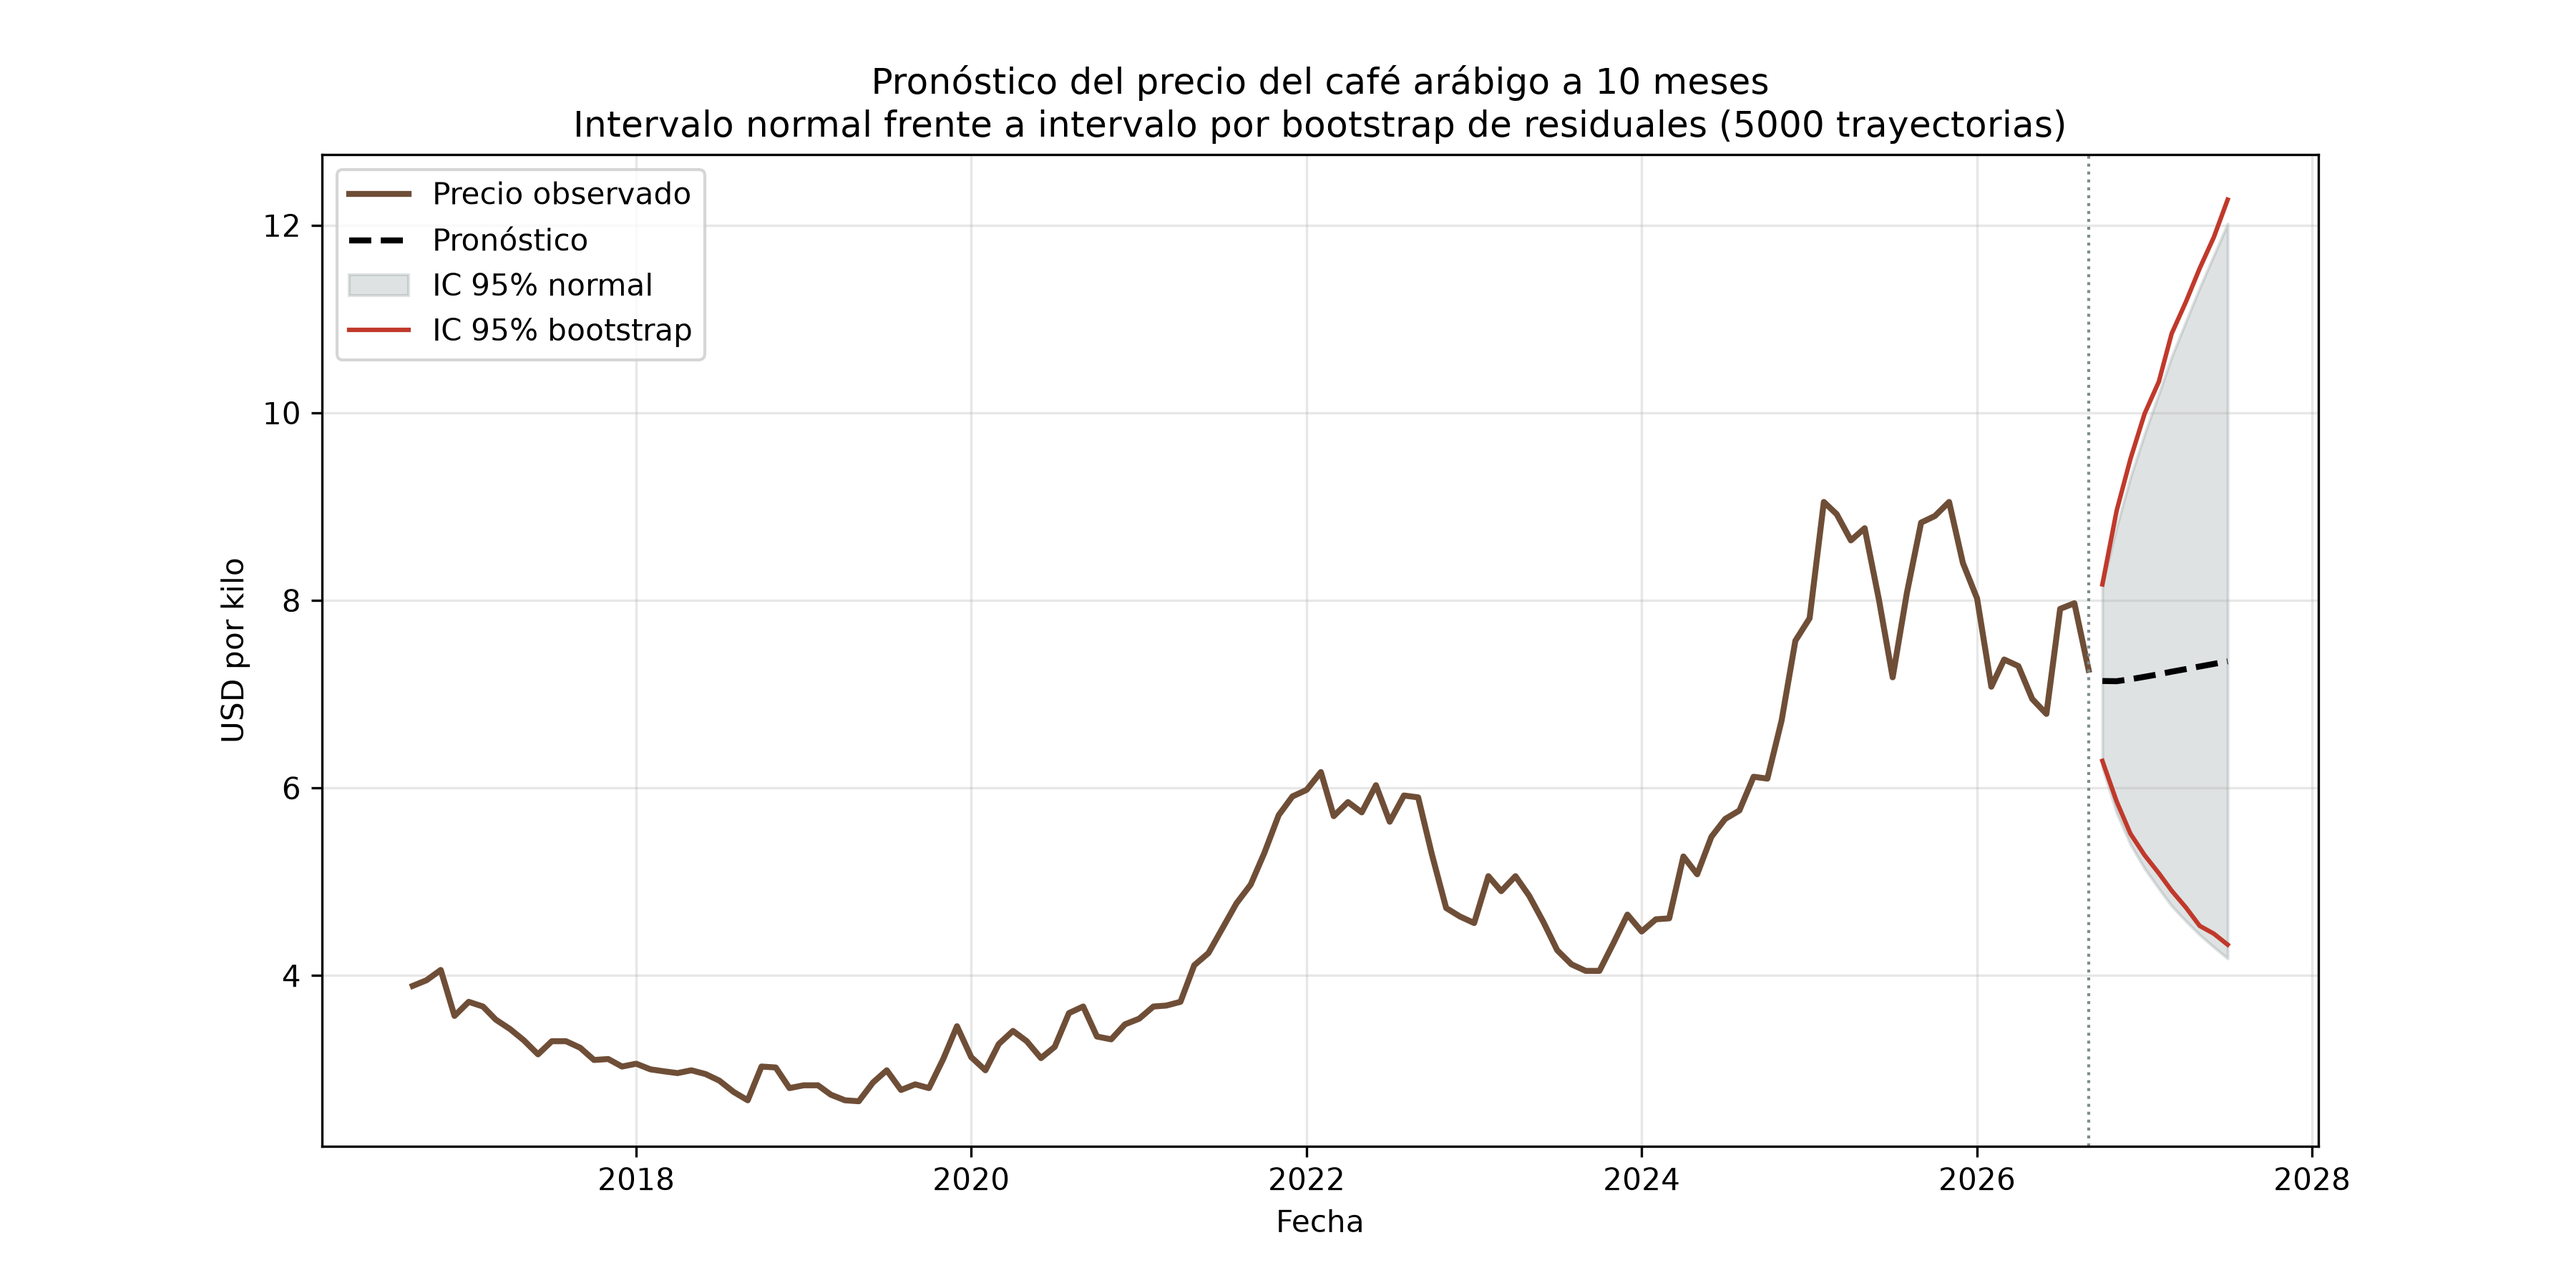
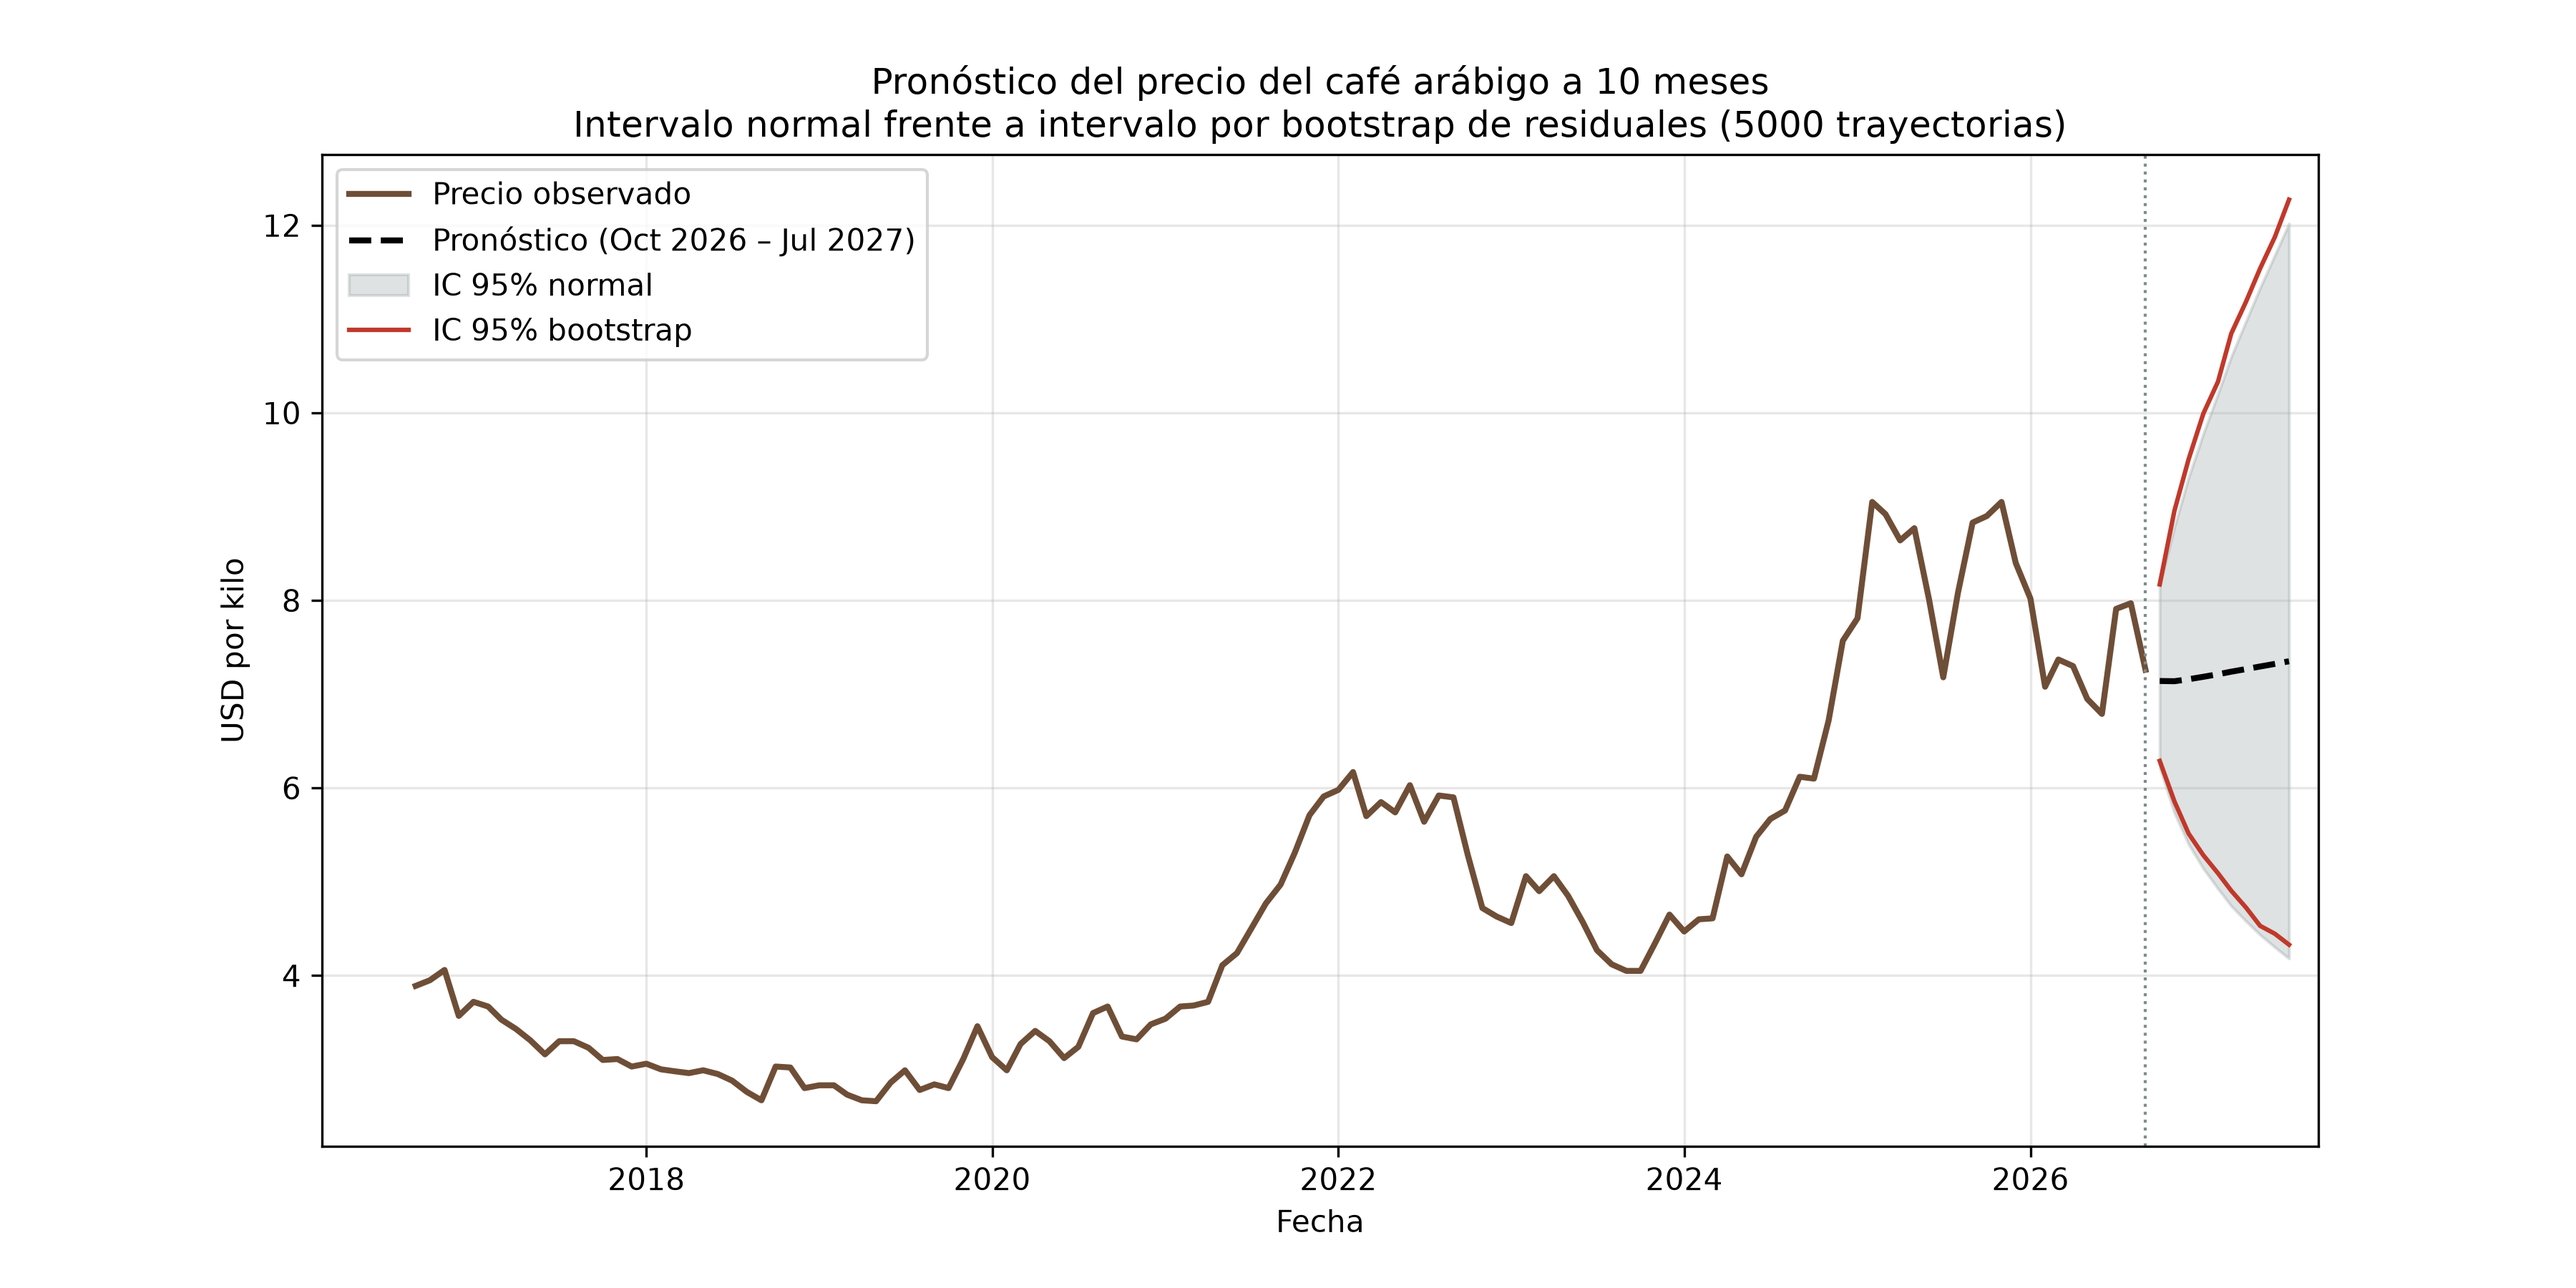
Mostrar claramente el horizonte de 10 meses en las gráficas
- La leyenda indica el periodo pronosticado (Oct 2026 – Jul 2027)
- El eje termina donde termina el pronóstico y se muestran los últimos 10 años
- El bootstrap usa HORIZONTE directamente, así no queda con 12 meses si
  no se vuelve a correr la celda del pronóstico
- Se imprime el horizonte en consola

diff --git a/poster_script.py b/poster_script.py
@@ -552,10 +552,20 @@ tabla_pronostico = pd.DataFrame({
 
 print(tabla_pronostico)
 
+# Periodo que cubre el pronóstico, para mostrarlo en las gráficas
+inicio_pron, fin_pron = pronostico_nivel.index[0], pronostico_nivel.index[-1]
+periodo_pronostico = (f"{meses[inicio_pron.month - 1]} {inicio_pron.year} – "
+                      f"{meses[fin_pron.month - 1]} {fin_pron.year}")
+print(f"Horizonte: {len(pronostico_nivel)} meses ({periodo_pronostico})")
+
+# Se muestran los últimos 10 años para que los meses pronosticados se distingan
+historia_reciente = cafe_serie.loc[cafe_serie.index >= cafe_serie.index[-1] - pd.DateOffset(years=10)]
+fin_eje = fin_pron + pd.DateOffset(months=2)  # El eje termina donde termina el pronóstico
+
 # Gráfica del pronóstico
 plt.figure(figsize=(10, 5))
-plt.plot(cafe_serie, label="Datos históricos", color=COLORES["original"])
-plt.plot(pronostico_nivel, label="Pronóstico", color=COLORES["diferencia"])
+plt.plot(historia_reciente, label="Datos históricos", color=COLORES["original"])
+plt.plot(pronostico_nivel, label=f"Pronóstico ({periodo_pronostico})", color=COLORES["diferencia"])
 plt.fill_between(
     pronostico_nivel.index,
     intervalos_nivel.iloc[:, 0],
@@ -565,6 +575,7 @@ plt.fill_between(
     label="Intervalo de confianza"
 )
 plt.title(f"Pronóstico del precio del café arábigo a {HORIZONTE} meses (ARIMA(1,1,0))")
+plt.xlim(right=fin_eje)
 plt.xlabel("Fecha")
 plt.ylabel("USD por kilo")
 plt.legend(loc="upper left")
@@ -588,7 +599,7 @@ plt.show()
 # Este bootstrap mantiene fijo el coeficiente estimado (phi), así que
 #       no incluye la incertidumbre de la estimación de los parámetros.
 
-pasos = len(pronostico_nivel)  # Mismo horizonte que el pronóstico anterior
+pasos = HORIZONTE  # Mismo horizonte que el pronóstico anterior
 B_pron = 5000  # Número de trayectorias simuladas
 rng_pron = np.random.default_rng(2026)  # Semilla para que el resultado sea reproducible
 
@@ -629,11 +640,9 @@ print("=== Pronóstico con intervalos normales y por bootstrap (USD/kg) ===")
 print(tabla_bootstrap.to_string())
 
 # Gráfica: últimos 10 años + pronóstico con los dos intervalos
-historia_reciente = cafe_serie.loc[cafe_serie.index >= cafe_serie.index[-1] - pd.DateOffset(years=10)]
-
 plt.figure(figsize=(12, 6))
 plt.plot(historia_reciente, color=COLORES["original"], linewidth=2, label="Precio observado")
-plt.plot(pronostico_nivel, color="black", linewidth=2, linestyle="--", label="Pronóstico")
+plt.plot(pronostico_nivel, color="black", linewidth=2, linestyle="--", label=f"Pronóstico ({periodo_pronostico})")
 plt.fill_between(
     pronostico_nivel.index,
     intervalos_nivel.iloc[:, 0],
@@ -650,6 +659,7 @@ plt.title(
     f"Intervalo normal frente a intervalo por bootstrap de residuales ({B_pron} trayectorias)",
     fontsize=12,
 )
+plt.xlim(right=fin_eje)
 plt.xlabel("Fecha")
 plt.ylabel("USD por kilo")
 plt.legend(loc="upper left")
